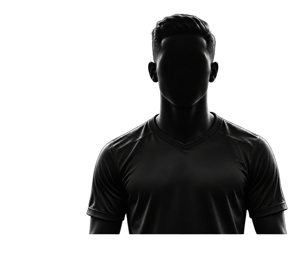
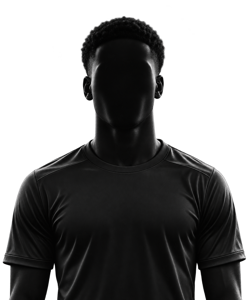
Fix stale cache for older gameweeks, update placeholder image

diff --git a/scripts/fetch_data.py b/scripts/fetch_data.py
@@ -826,7 +826,15 @@ def build():
         and (b) matches the current row schema - an older cache from before a
         field like 'photo_url' existed would otherwise render blank forever
         in views that depend on it."""
-        REQUIRED_KEYS = {"photo_url", "shirt_color", "initials", "opponents"}
+        # Every persistent per-player field ever added since caching began -
+        # if an older cached gameweek is missing ANY of these, it predates
+        # that field's introduction and needs refetching, not reuse. Keep
+        # this list updated whenever a new field is added to squad rows.
+        REQUIRED_KEYS = {
+            "photo_url", "shirt_color", "initials", "opponents",
+            "season_points", "badges", "form", "xg", "xa", "xgi",
+            "saves", "own_goals", "goals_conceded",
+        }
         found_signal = False
         for squad in squads_dict.values():
             for p in squad.get("starting", []) + squad.get("bench", []):
